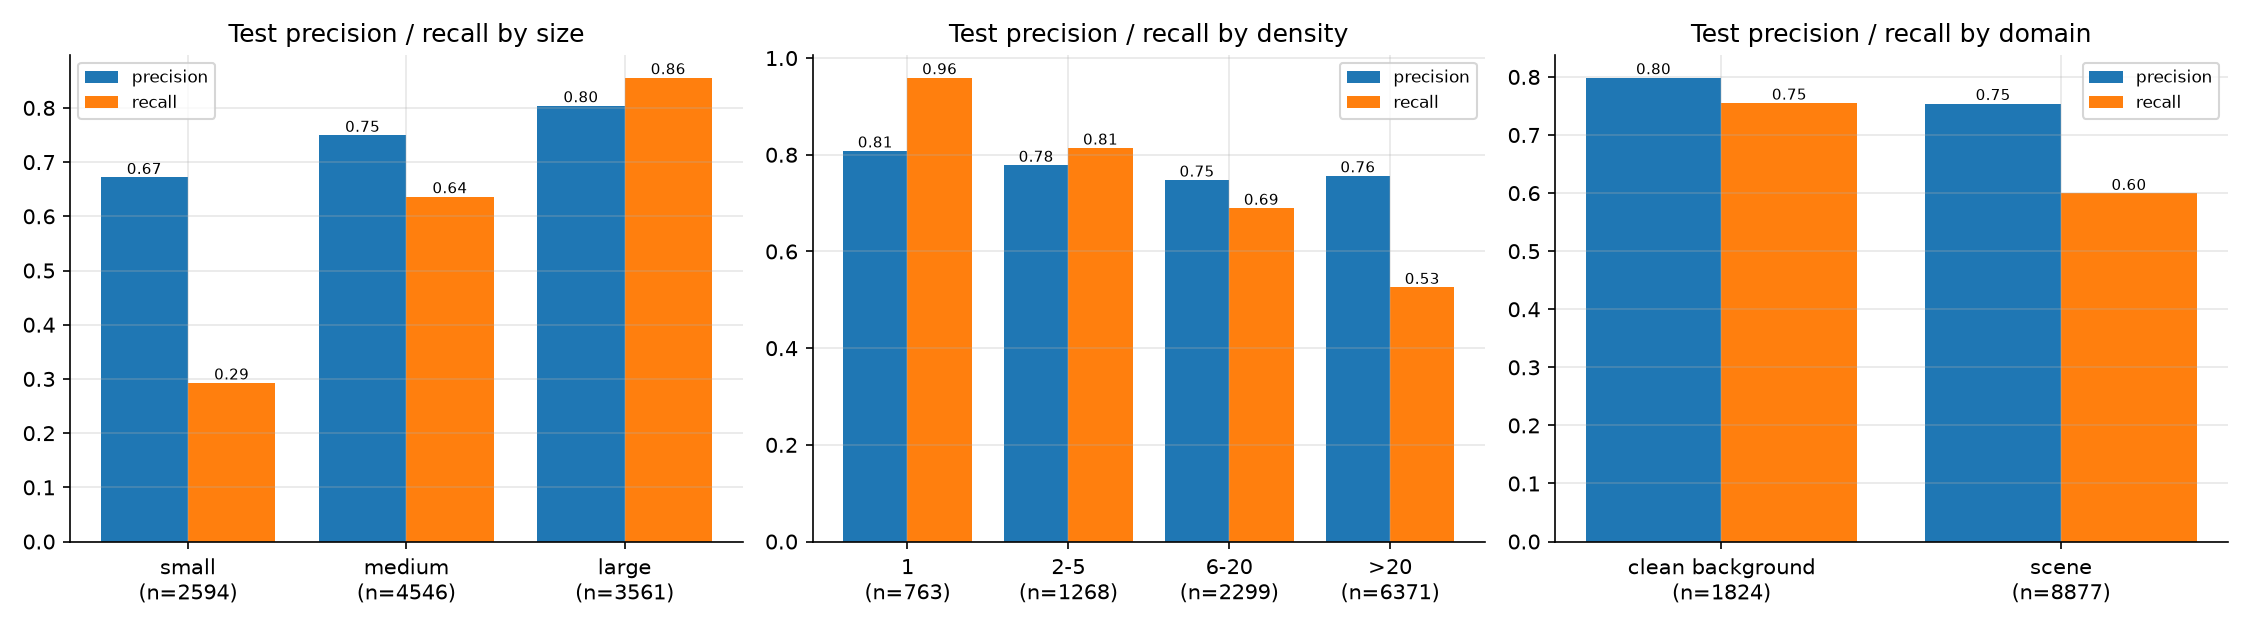
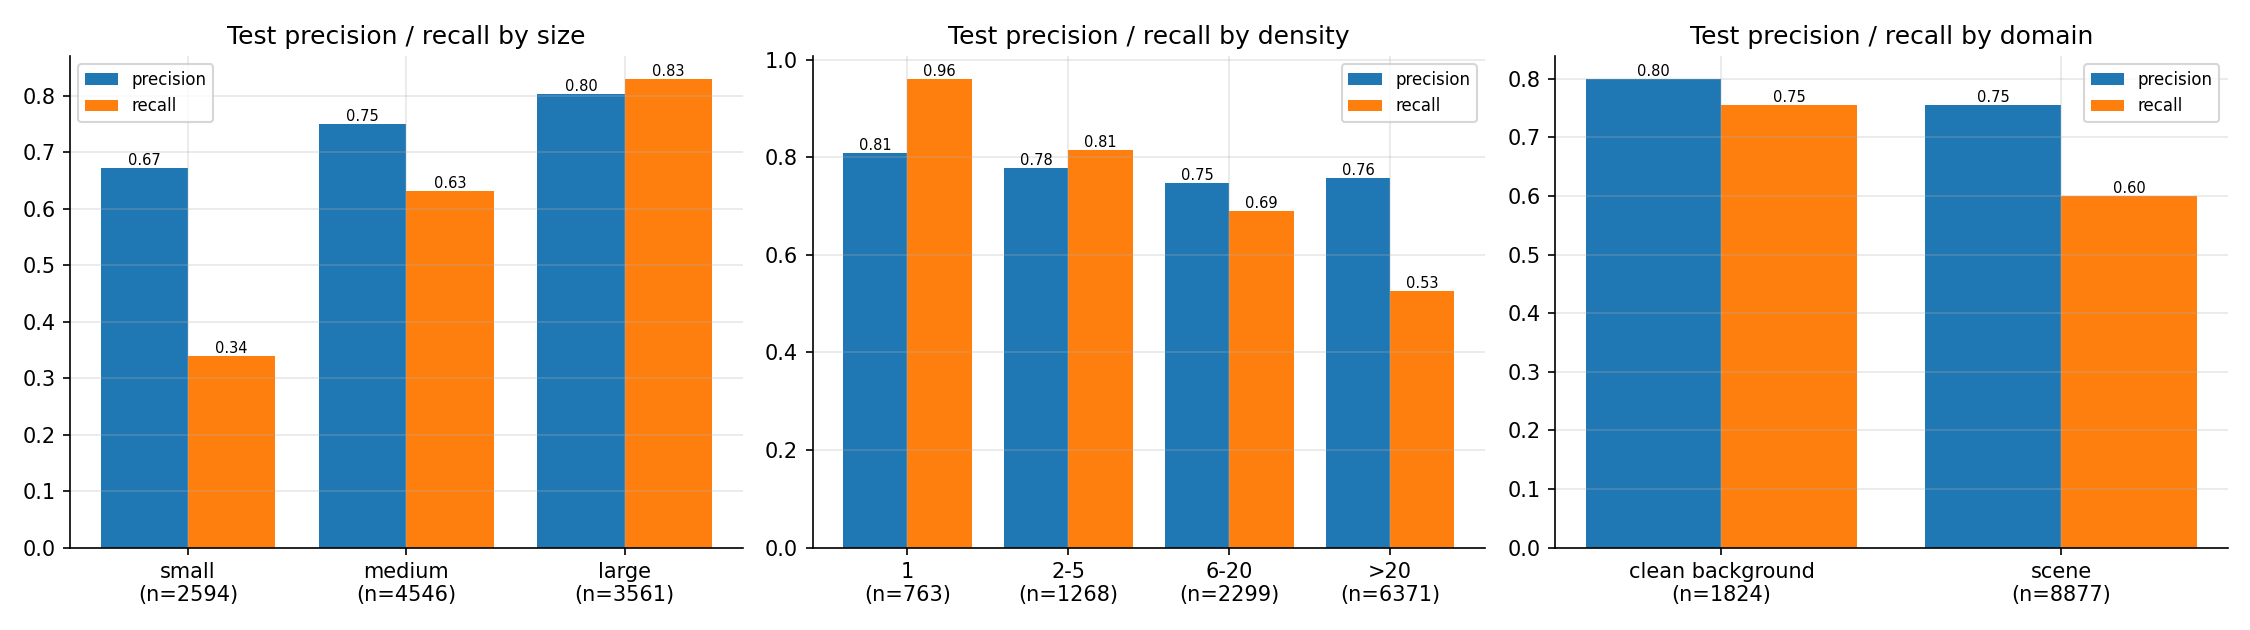
Fix recall by object size in breakdown (group found objects by true box)

diff --git a/waste/evaluation.py b/waste/evaluation.py
@@ -100,8 +100,9 @@ def match_split(cfg: Config, part: str, conf: float) -> list[Matched]:
     return out
 
 
-def precision_recall(tp: int, n_pred: int, n_gt: int) -> dict:
-    p, r = tp / max(n_pred, 1), tp / max(n_gt, 1)
+def precision_recall(tp: int, n_pred: int, n_gt: int, found: int | None = None) -> dict:
+    """Precision = correct detections / detections; recall = objects found / objects (found defaults to tp)."""
+    p, r = tp / max(n_pred, 1), (tp if found is None else found) / max(n_gt, 1)
     return {"precision": round(p, 4), "recall": round(r, 4), "f1": round(2 * p * r / max(p + r, 1e-9), 4),
             "objects": n_gt, "detections": n_pred}
 
@@ -132,11 +133,14 @@ def groups_of(m: Matched, xyxy: np.ndarray, cls: int) -> dict:
 
 def breakdown(matched: list[Matched]) -> dict:
     """Precision and recall per class, object size, objects per image and image domain."""
-    counts = defaultdict(lambda: [0, 0, 0])                                  # (kind, group) -> tp, preds, objects
+    # Precision groups each detection by its own box; recall groups each object by its true box.
+    # (Counting found objects by the predicted box size, as before, mixed the two groupings for object size.)
+    counts = defaultdict(lambda: [0, 0, 0, 0])                         # (kind, group) -> tp, preds, objects, found
     for m in matched:
-        for g in range(len(m.gt_outcome)):
+        for g, outcome in enumerate(m.gt_outcome):
             for kind, key in groups_of(m, m.gt_xyxy[g], m.sample.classes[g]).items():
                 counts[kind, key][2] += 1
+                counts[kind, key][3] += outcome == "correct"
         for p, outcome in enumerate(m.pr_outcome):
             for kind, key in groups_of(m, m.pr_xyxy[p], m.pr_cls[p]).items():
                 counts[kind, key][0] += outcome == "tp"

diff --git a/README.md b/README.md
@@ -22,9 +22,9 @@ Computer Vision portfolio project, THWS (Technische Hochschule Würzburg-Schwein
 
 Key findings:
 
-- **Object size and crowding decide what is found:** 86 % of large objects are detected but only 29 % of small ones; 96 % of objects in single-object images but 53 % in piles of more than 20.
+- **Object size and crowding decide what is found:** 83 % of large objects are detected but only 34 % of small ones; 96 % of objects in single-object images but 53 % in piles of more than 20.
 - **The main error is missing objects, not confusing classes:** 31 % of test objects are missed, 1.5 % get the wrong class.
-- **Some errors are label errors:** e.g. vegetables annotated as "paper"; 133 images have labels that contradict their file-name class.
+- **Some errors are label errors:** e.g. vegetables annotated as "paper"; in 133 images the labels disagree with the file-name class (94 are mixed scenes, 39 are likely label errors).
 - **Training longer does not help:** a 100-epoch run stopped early at epoch 90 with validation mAP50-95 0.504 vs 0.500 for 60 epochs; the model has converged.
 - Inference: about 5 ms per image on an RTX 5060 Laptop GPU.
 
